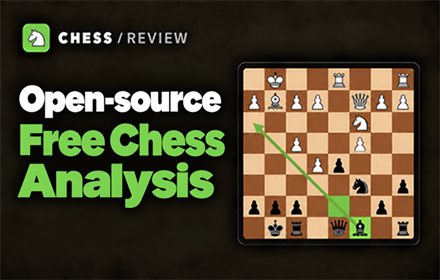
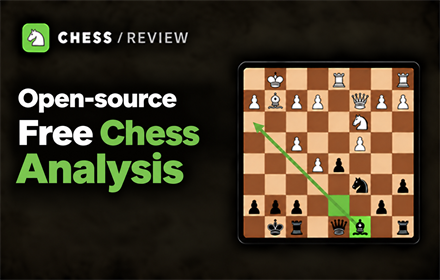
marketing: refine promo backgrounds and small tile lettering
Restore darker charcoal backdrops with less brown haze. Give the small promo calmer typography, white Free text, and green lettering matched to the marquee.

diff --git a/marketing/chrome-web-store/promo tiles/README.md b/marketing/chrome-web-store/promo tiles/README.md
@@ -42,23 +42,34 @@ Marquee prompt:
 - `marquee-promo-tile-open-source-1400x560.png`: 1400 x 560 PNG.
 
 These sibling versions preserve the corrected originals above. The small tile
-uses three lines: "Open-source" in white, then "Free Chess" and "Analysis" in
-green. Each line uses a naturally proportioned font size to give similar visual
-widths. The marquee uses "Open-source, free" in white above "Chess Analysis" in
+uses three lines: "Open-source" in white, "Free Chess" with white "Free" and
+green "Chess", and green "Analysis". Naturally proportioned, less inflated
+lettering and clear spacing take priority over matching line widths exactly.
+The small tile's green is visually matched to the marquee. The marquee uses
+"Open-source, free" in white above "Chess Analysis" in
 green, with both lines centered on the same axis. The logo is centered above
-the enlarged headline, and the board sits farther right. Both exports were
+the enlarged headline, and the board sits farther right. Both backgrounds use
+the original tiles as references for darker charcoal with less brown haze.
+Both exports were
 created with built-in imagegen, resampled with System.Drawing HighQualityBicubic,
 decoded to confirm PNG format and dimensions, and visually checked. The original
 tile hashes were checked to confirm neither original changed.
 
 Small variant prompt:
 
-> Use case: text-localization. Change only the left headline to exactly three
-> lines: Open-source / Free Chess / Analysis. Use white for the first line and
-> green for the others. Use naturally proportioned bold sans serif with no
-> horizontal compression: first line about 28-30 px and following lines larger
-> so each line is about 205 px wide. Preserve the logo, dark texture, board
-> placement, all pieces, green c8 bishop, ordinary c6 knight square, absent e6
+> Use the current small variant as edit target, original small tile as dark
+> background and typography reference, and marquee as green color reference.
+> Keep exactly three lines: Open-source / Free Chess / Analysis. Open-source and
+> Free must be white; Chess and Analysis green. Use clean heavy geometric sans
+> serif with naturally proportioned stable letterforms, clear counters and
+> spacing, no horizontal squeezing or inflated rounded shapes. A targeted
+> typography refinement requests Inter Bold 700 / ExtraBold 800-style lettering,
+> smaller calmer type about 175-190 px wide and natural spacing between Free and
+> Chess. Approximate sizes are 25 px, 32 px and 34 px for the three lines, with
+> green #7dc34f as a visual target from the marquee. Similar line
+> widths are secondary to good typography. Slightly darken the backdrop toward
+> the original near-black warm charcoal and reduce brown haze. Preserve the logo,
+> board placement, pieces, green c8 bishop, ordinary c6 knight square, absent e6
 > pawn, green d7 and c8-h3 arrow. No accuracy panel, added text or watermark.
 > Keep the 440:280 aspect ratio.
 
@@ -69,3 +80,11 @@ Marquee variant prompt:
 > Analysis, centering both on one axis. Center the logo lockup above them.
 > Preserve the background, pieces, highlights and corrected bishop arrow.
 > No accuracy panel, extra copy or watermark. Keep the 1400:560 aspect ratio.
+
+Marquee background refinement prompt:
+
+> Use the current marquee variant as edit target and original marquee only as
+> backdrop reference. Slightly darken the outer background to near-black warm
+> charcoal, reduce brown haze and preserve subtle texture. Leave foreground
+> layout, wording, colors, pieces and highlights unchanged. No new gradient or
+> lighting.
